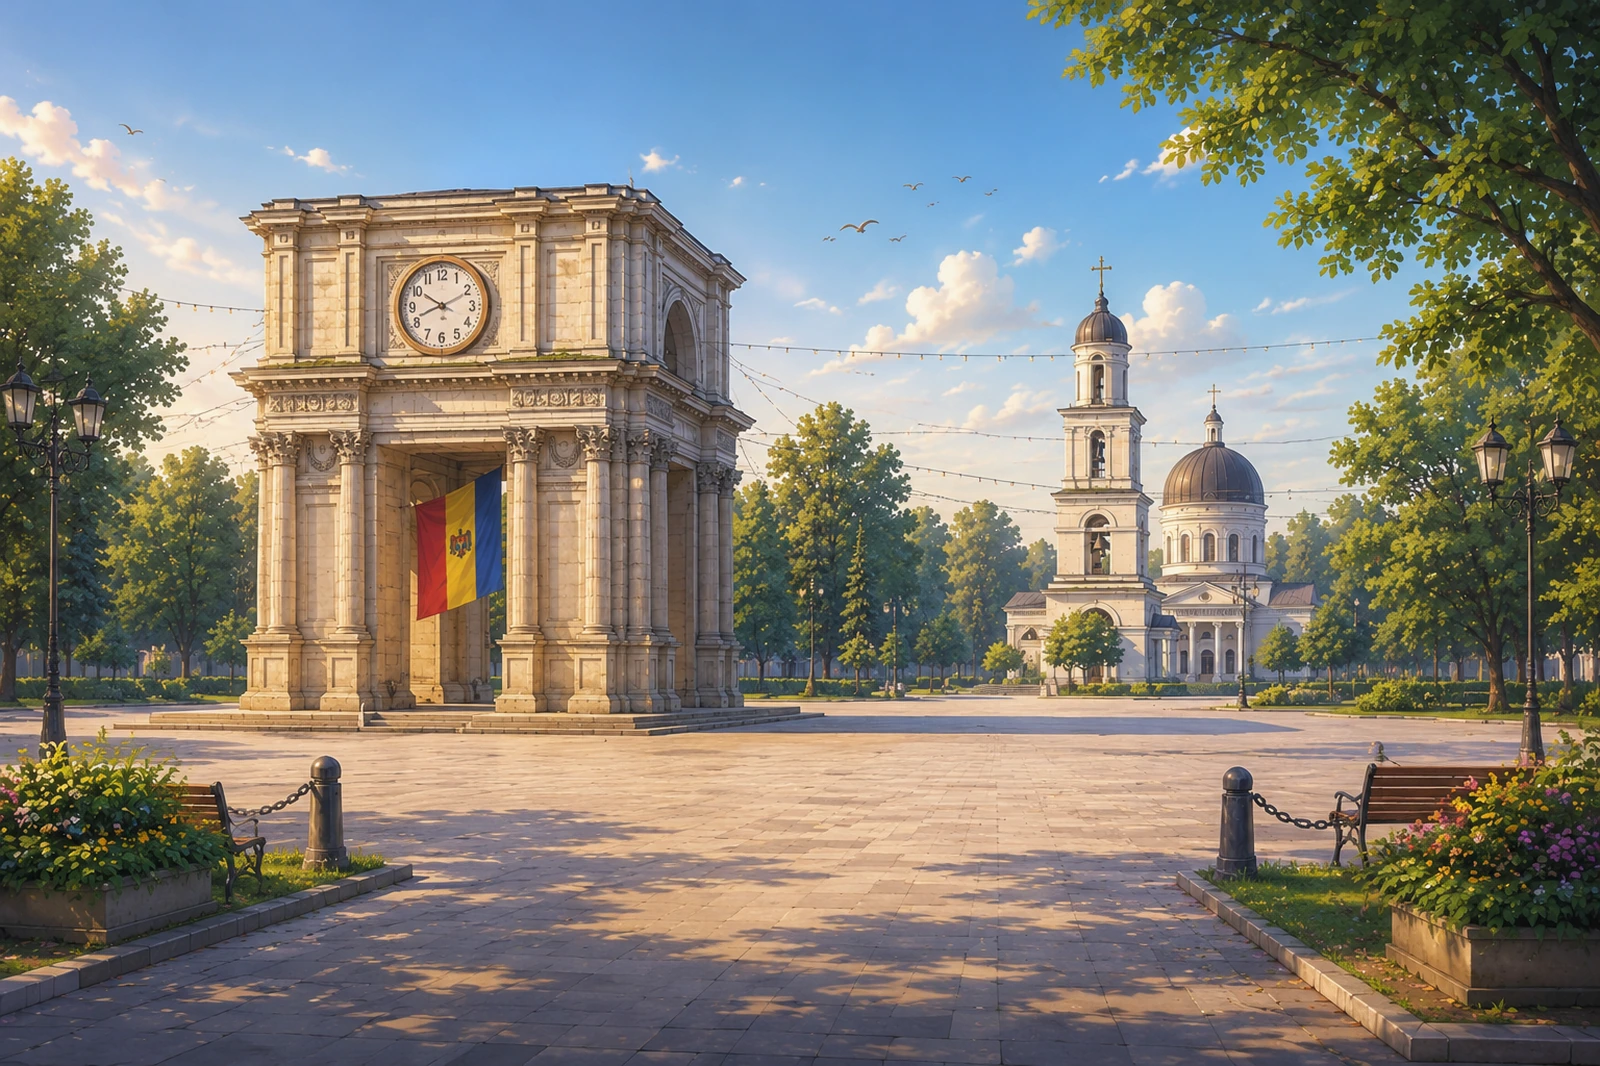
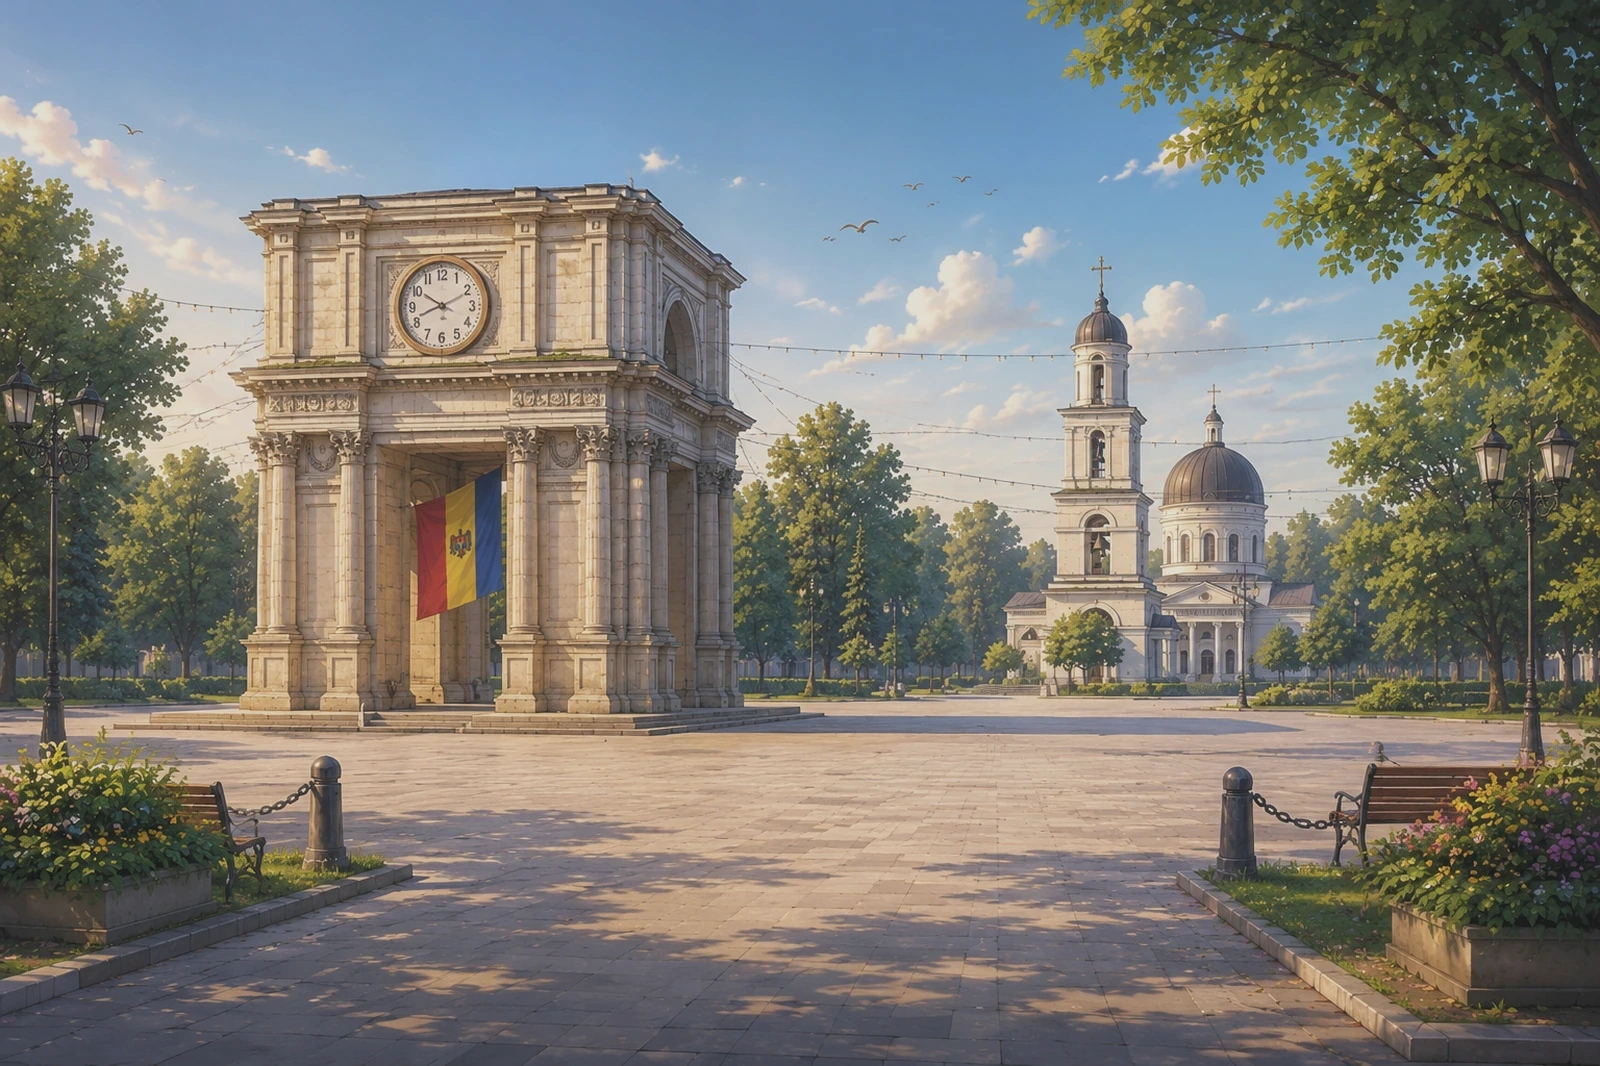
Смягчаю контраст темы Кишинёва, добавляю обводку виджетам и скролл в меню выбора темы

diff --git a/css/settings.css b/css/settings.css
@@ -125,7 +125,7 @@ body.intro-active:has(#musicBoxButton.is-highlighted) .key-counter{
 .top-action-btn{
     width:44px;
     height:44px;
-    border:none;
+    border:1.5px solid rgba(255,255,255,.45);
     border-radius:50%;
     background:rgba(255,255,255,.18);
     backdrop-filter:blur(14px);
@@ -339,7 +339,7 @@ body.intro-active:has(#musicBoxButton.is-highlighted) .key-counter{
     width:40px;
     height:40px;
     position:relative;
-    border:none;
+    border:1.5px solid rgba(255,255,255,.45);
     border-radius:14px;
     background:rgba(255,255,255,.16);
     backdrop-filter:blur(14px);
@@ -863,9 +863,26 @@ body.intro-active:has(#musicBoxButton.is-highlighted) .key-counter{
 .theme-selection-menu__list{
     list-style:none;
     margin:0;
-    padding:0;
+    padding:0 4px 0 0;
     display:grid;
     gap:8px;
+    max-height:220px;
+    overflow-y:auto;
+    scrollbar-width:thin;
+    scrollbar-color:rgba(255,255,255,.35) transparent;
+}
+
+.theme-selection-menu__list::-webkit-scrollbar{
+    width:5px;
+}
+
+.theme-selection-menu__list::-webkit-scrollbar-track{
+    background:transparent;
+}
+
+.theme-selection-menu__list::-webkit-scrollbar-thumb{
+    background:rgba(255,255,255,.35);
+    border-radius:999px;
 }
 
 .theme-option-btn.is-selected{
